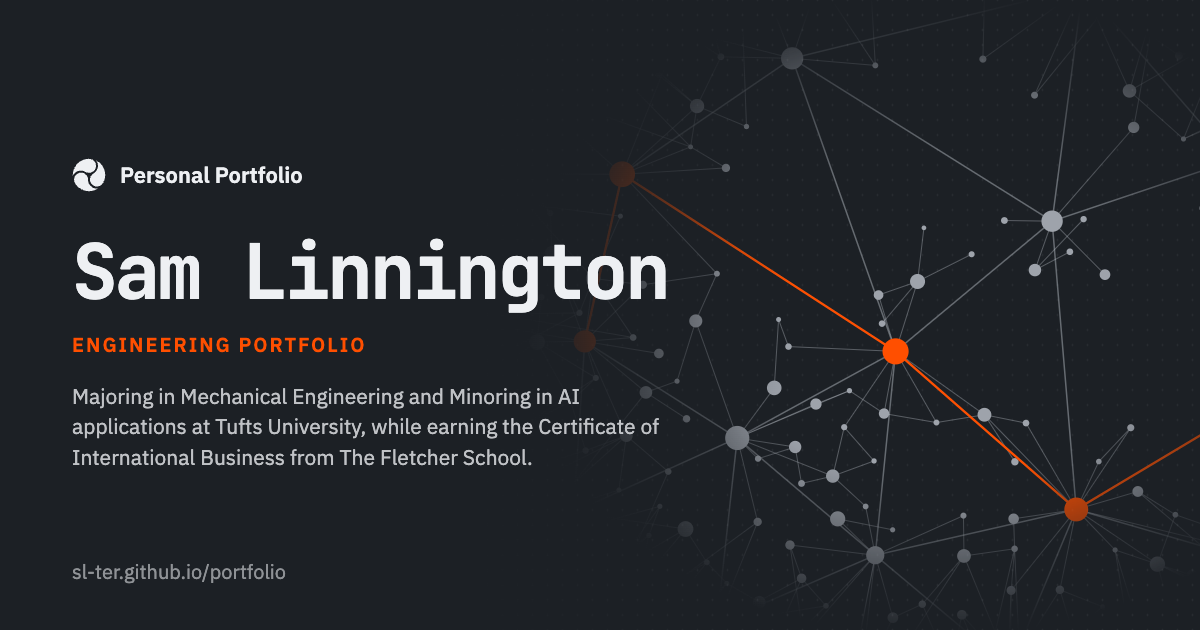
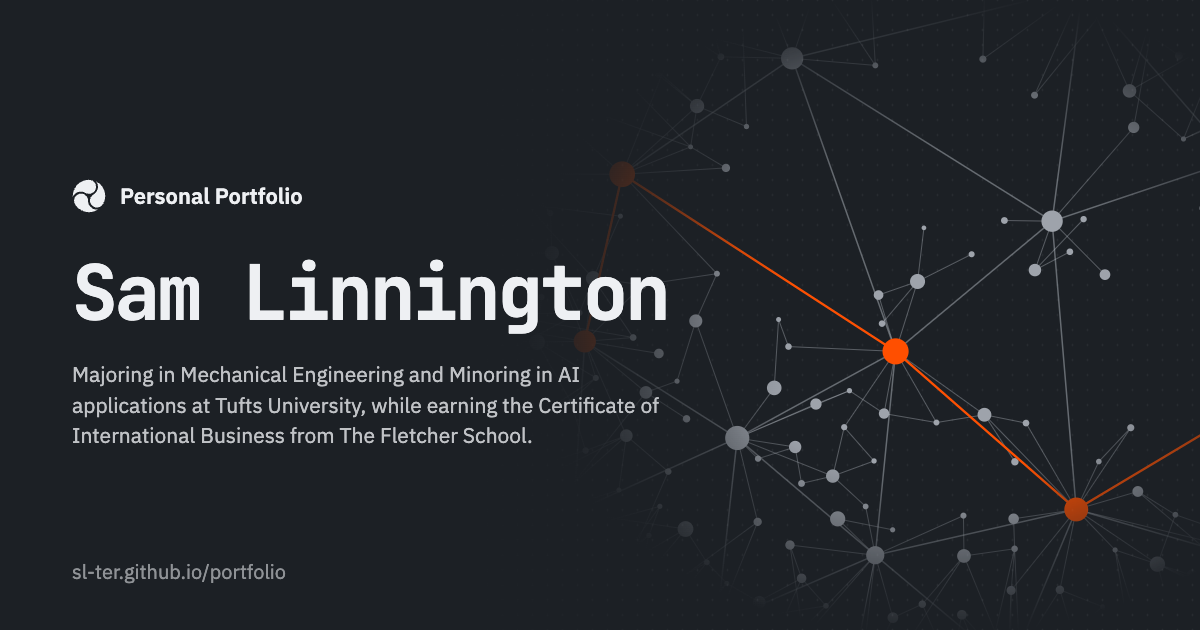
Social card: drop the Engineering Portfolio kicker

Changed region(s): [[0.0617, 0.3619, 0.555, 0.754], [0.0617, 0.2413, 0.2467, 0.3317]]

diff --git a/scripts/make_social_card.py b/scripts/make_social_card.py
@@ -44,9 +44,7 @@ body {{ width: 1200px; height: 630px; overflow: hidden; position: relative; back
 .brand {{ display: flex; align-items: center; gap: 14px; margin-bottom: 40px; font-weight: 600; font-size: 22px }}
 .brand svg {{ width: 34px; height: 34px; fill: #eef0f3 }}
 h1 {{ font: 700 76px/1.05 "JetBrains Mono", monospace; letter-spacing: -0.04em }}
-.kicker {{ margin: 18px 0 22px; color: #ff4f00; font-weight: 600; font-size: 20px;
-           letter-spacing: 0.1em; text-transform: uppercase }}
-.lede {{ max-width: 600px; color: rgba(238, 240, 243, 0.78); font-size: 21px }}
+.lede {{ margin-top: 26px; max-width: 600px; color: rgba(238, 240, 243, 0.78); font-size: 21px }}
 .url {{ position: absolute; left: 72px; bottom: 44px; color: rgba(238, 240, 243, 0.55); font-size: 20px }}
 </style></head>
 <body>
@@ -54,7 +52,6 @@ h1 {{ font: 700 76px/1.05 "JetBrains Mono", monospace; letter-spacing: -0.04em }
 <div class="text">
   <div class="brand">{logo}<span>{cfg.site_name}</span></div>
   <h1>{cfg.extra["author"]}</h1>
-  <p class="kicker">Engineering Portfolio</p>
   <p class="lede">{cfg.site_description}</p>
 </div>
 <p class="url">{cfg.site_url.removeprefix("https://").rstrip("/")}</p>
